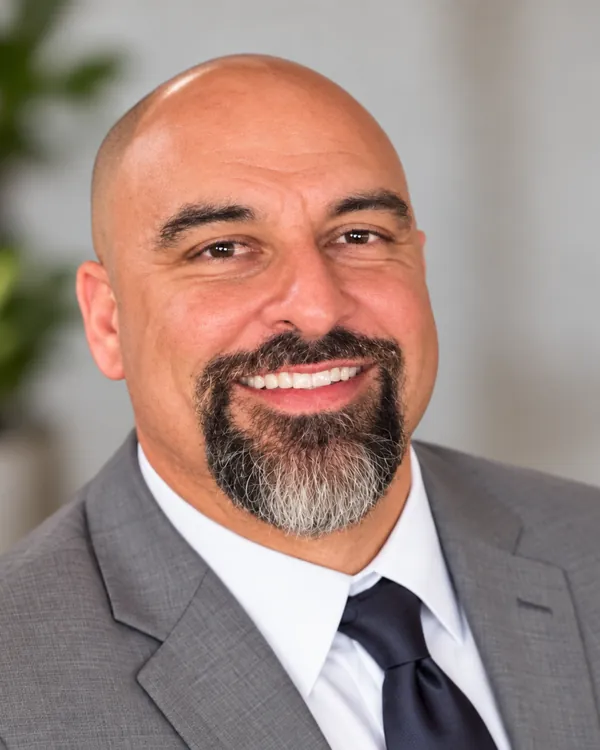
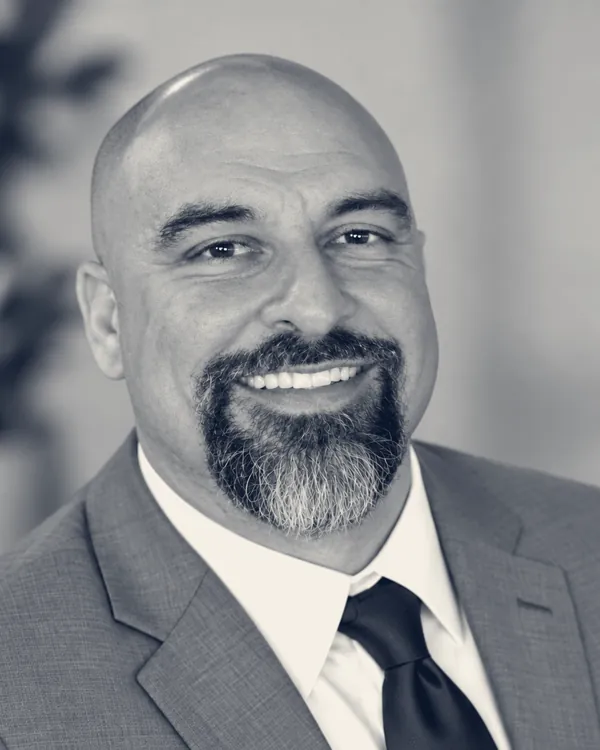
Hero portrait: navy/ivory duotone
Claude-Session: https://claude.ai/code/session_01AV6qtp1tue4KhNLdXf5NYL

diff --git a/public/index.html b/public/index.html
@@ -111,7 +111,7 @@ img{max-width:100%;display:block}
 .hero p.lead{font-size:19px;color:var(--muted);max-width:520px;margin:0;text-wrap:pretty}
 .hero .ctas{display:flex;gap:16px;flex-wrap:wrap;margin-top:10px}
 .cardwrap{position:relative;min-height:700px}
-.portrait{position:absolute;left:50%;top:0;transform:translateX(-50%);width:min(600px,100%);height:750px;object-fit:cover;object-position:50% 0;opacity:.9;filter:saturate(.8) contrast(1.03);-webkit-mask-image:linear-gradient(90deg,transparent 0%,rgba(0,0,0,.4) 20%,#000 45%,#000 80%,transparent 100%),linear-gradient(180deg,transparent 0%,#000 16%,#000 62%,transparent 100%);-webkit-mask-composite:source-in;mask-image:linear-gradient(90deg,transparent 0%,rgba(0,0,0,.4) 20%,#000 45%,#000 80%,transparent 100%),linear-gradient(180deg,transparent 0%,#000 16%,#000 62%,transparent 100%);mask-composite:intersect;pointer-events:none}
+.portrait{position:absolute;left:50%;top:0;transform:translateX(-50%);width:min(600px,100%);height:750px;object-fit:cover;object-position:50% 0;opacity:.95;-webkit-mask-image:linear-gradient(90deg,transparent 0%,rgba(0,0,0,.4) 20%,#000 45%,#000 80%,transparent 100%),linear-gradient(180deg,transparent 0%,#000 16%,#000 62%,transparent 100%);-webkit-mask-composite:source-in;mask-image:linear-gradient(90deg,transparent 0%,rgba(0,0,0,.4) 20%,#000 45%,#000 80%,transparent 100%),linear-gradient(180deg,transparent 0%,#000 16%,#000 62%,transparent 100%);mask-composite:intersect;pointer-events:none}
 .cardwrap::after{content:"";position:absolute;inset:0;background:linear-gradient(90deg,var(--navy) 0%,rgba(11,21,40,.55) 22%,rgba(11,21,40,0) 55%),linear-gradient(180deg,rgba(11,21,40,0) 55%,var(--navy) 100%);pointer-events:none}
 
 /* strip */
